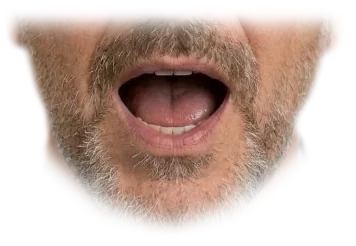
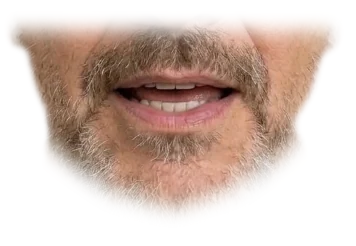
Ağız: 'a' resimleri konuşma ölçüsünde yeniden çizildi (meraklı, düşünceli, anlayışlı, şaşkın); 'a' artık kısaltılmıyor
Eski 'a' resimleri esner gibi aşırı açıktı (diğer ünlülerin iki katı).

Claude-Session: https://claude.ai/code/session_01VDWY4KUyw1Gm5WsRP8cYgH

diff --git a/dh-canli-yuz.js b/dh-canli-yuz.js
@@ -112,7 +112,7 @@
      - Ünlüler en önemli: kısa bir ünlü komşu ünsüze yutulmaz, gerekirse komşudan süre alır (harf atlanmaz).
      - Dudak kapanışı (m-b-p, f-v) kısa da olsa görünür kalır (en az ~65 ms).
      - Diğer kısa şekiller (r, n, t, k…) önemli komşuya katılır: saniyede ~6 değişim, titreme yok.
-     - Kısa "a" yarı açık (e) gösterilir: ağız yalnız uzun/vurgulu "a"da sonuna kadar açılır. */
+     - "a" resimleri konuşma ölçüsünde (orta açık) çizildi; ayrıca kısaltılmaz. */
   var ONEM = { a: 3, o: 3, u: 2.9, e: 2.7, i: 2.6, mbp: 2.8, fv: 2.6, sc: 2.2, idle: 1 }, EN_AZ_MS = { mbp: 65, fv: 65 };
   function agizDuzen(d, km) {
     var ALT = 2, alt = km / ALT, i, j, k;
@@ -133,7 +133,7 @@
       for (i = R.length - 1; i > 0; i--) if (R[i].s === R[i - 1].s) { R[i - 1].n += R[i].n; R.splice(i, 1); }
     }
     var o = [];
-    R.forEach(function (x) { var s = x.s === "a" && x.n * alt < 125 ? "e" : x.s; for (k = 0; k < x.n; k++) o.push(s); });
+    R.forEach(function (x) { for (k = 0; k < x.n; k++) o.push(x.s); });
     if (d.ci) { o.ci = []; for (k = 0; k < o.length; k++) o.ci.push(d.ci[Math.min(d.ci.length - 1, Math.floor(k / ALT))]); }
     return { dizi: o, kareMs: alt };
   }
@@ -141,7 +141,7 @@
   var sinirVar = false;   /* tarayıcı kelime sınırı (onboundary) bildiriyor mu — ilk bildirimde öğrenilir */
   /* ---------- Yardımcılar ---------- */
   /* avatar görsellerinin sürümü: görseller yenilenince artır (önbellekte eski kopya kalmasın) */
-  var GORSEL_SURUM = "20261119a";
+  var GORSEL_SURUM = "20261119b";
   function yukle(src) { if (src.indexOf("?") < 0 && !/^(data|blob):/.test(src)) src += "?v=" + GORSEL_SURUM; return new Promise(function (res, rej) { var im = new Image(); im.onload = function () { (im.decode ? im.decode() : Promise.resolve()).then(function () { res(im); }, function () { res(im); }); }; im.onerror = rej; im.src = src; }); }
   function ort(P, ids) { var x = 0, y = 0; ids.forEach(function (i) { x += P[i][0]; y += P[i][1]; }); return [x / ids.length, y / ids.length]; }
   function lerp(a, b, t) { return a + (b - a) * t; }
@@ -400,7 +400,7 @@
         var sv = sesSeviye(); c.ort = c.ort == null ? sv : c.ort * 0.96 + sv * 0.04;
         if (sv < 0.01) c.sessizMs = (c.sessizMs || 0) + dt * 1000; else if (sv > 0.016) c.sessizMs = 0;
         if (c.sessizMs > 90) sekil = "idle";
-        else if (c.ort && sv < c.ort * 0.75 && (sekil === "a" || sekil === "o")) sekil = sekil === "a" ? "e" : "u";   /* kısık hecede ağız yarı açık */
+        else if (c.ort && sv < c.ort * 0.6 && sekil === "o") sekil = "u";   /* kısık hecede ağız yarı açık */
         if (sv > 0.05 && sv > c.ort * 1.9 && Math.random() < 0.45) vurgula(simdi);
       }
       if (sekil === "th" && !parcalar.th) sekil = "e";

diff --git a/sw.js b/sw.js
@@ -13,7 +13,7 @@
       indirilip bir sonraki açılışta devreye girer.
    4) Bildirim tıklama / push davranışı v3 ile aynı.
 */
-var SW_VERSION = "dh-sw-v491";  /* 👄 Ağız zamanlaması: hece düzeni */ //  /* 🔗 Dil Harita ↔ Konuşkan: modül sonu konuşma, ortak hata defteri */
+var SW_VERSION = "dh-sw-v492";  /* 👄 Orta açık A */ //  /* 🔗 Dil Harita ↔ Konuşkan: modül sonu konuşma, ortak hata defteri */
 /* onceki v439: 🤖 Boş yapay zekâ cevabı artık hata; gpt-oss kısa düşünür */
 /* onceki v438: 📚 Konuşkan: Dil Harita modülleri ve tam seviye cümleleri */
 /* onceki v437: ➕ Konuşkan: kendi kursunu oluştur */

diff --git a/konuskan.html b/konuskan.html
@@ -45,7 +45,7 @@
 <!-- Dil Harita ortak hata defteri: Konuşkan hataları koçun da görmesi için buraya yazılır -->
 <script src="./learning-error-system.js?v=11"></script>
 <script src="./viseme-lang.js?v=3"></script>
-<script src="./dh-canli-yuz.js?v=15"></script>
+<script src="./dh-canli-yuz.js?v=16"></script>
 <script src="./konuskan/konuskan.js?v=9"></script>
 <script src="./konuskan/yz-kullanim.js?v=2"></script>
 <script src="./konuskan/youtube.js?v=1"></script>

diff --git a/chat-core.js b/chat-core.js
@@ -1776,7 +1776,7 @@ function aiTercihSor(devam){
 function canliYukle(){
   return new Promise(function(res, rej){
     if(window.DHCanliYuz) return res();
-    var s=document.createElement("script"); s.src="./dh-canli-yuz.js?v=15"; s.onload=res; s.onerror=rej; document.head.appendChild(s);
+    var s=document.createElement("script"); s.src="./dh-canli-yuz.js?v=16"; s.onload=res; s.onerror=rej; document.head.appendChild(s);
   });
 }
 class CanliSohbetAvatar{

diff --git a/dh-avatar.js b/dh-avatar.js
@@ -145,7 +145,7 @@
   function canliHazirla() {
     var adimlar = [];
     if (!global.DHViseme) adimlar.push(betikYukle("./viseme-lang.js"));
-    return Promise.all(adimlar).then(function () { return global.DHCanliYuz ? null : betikYukle("./dh-canli-yuz.js?v=15"); });
+    return Promise.all(adimlar).then(function () { return global.DHCanliYuz ? null : betikYukle("./dh-canli-yuz.js?v=16"); });
   }
   var stilVar = false;
   function stilEkle() {

diff --git a/chatairport.html b/chatairport.html
@@ -48,7 +48,7 @@ window.CHAT_SCENARIO = {
      konu baştan başlıyordu. chat-core'dan ÖNCE yüklenmeli. -->
 <script src="./dh-konusma.js?v=2"></script>
 <script src="./profile.js?v=2"></script>
-<script src="./chat-core.js?v=t46"></script>
+<script src="./chat-core.js?v=t47"></script>
 <script src="./dh-ortam-fon.js?v=6"></script>
 <script src="./dh-plan.js?v=3"></script>
 <script src="./dh-sohbet-puan.js?v=tm1"></script>

diff --git a/chatdoctor.html b/chatdoctor.html
@@ -53,7 +53,7 @@
      konu baştan başlıyordu. chat-core'dan ÖNCE yüklenmeli. -->
 <script src="./dh-konusma.js?v=2"></script>
 <script src="./profile.js?v=2"></script>
-<script src="./chat-core.js?v=t46"></script>
+<script src="./chat-core.js?v=t47"></script>
 <script src="./dh-ortam-fon.js?v=6"></script>
 <script src="./dh-plan.js?v=3"></script>
 <script src="./dh-sohbet-puan.js?v=tm1"></script>

diff --git a/chathotel.html b/chathotel.html
@@ -27,7 +27,7 @@
      konu baştan başlıyordu. chat-core'dan ÖNCE yüklenmeli. -->
 <script src="./dh-konusma.js?v=2"></script>
 <script src="./profile.js?v=2"></script>
-<script src="./chat-core.js?v=t46"></script>
+<script src="./chat-core.js?v=t47"></script>
 <script src="./dh-ortam-fon.js?v=6"></script>
 <script src="./dh-plan.js?v=3"></script>
 <script src="./dh-sohbet-puan.js?v=tm1"></script>

diff --git a/chatmodul.html b/chatmodul.html
@@ -87,7 +87,7 @@
      konu baştan başlıyordu. chat-core'dan ÖNCE yüklenmeli. -->
 <script src="./dh-konusma.js?v=2"></script>
 <script src="./profile.js?v=2"></script>
-<script src="./chat-core.js?v=t46"></script>
+<script src="./chat-core.js?v=t47"></script>
 <script src="./dh-ortam-fon.js?v=6"></script>
 <script src="./dh-plan.js?v=3"></script>
 <script src="./dh-sohbet-puan.js?v=tm1"></script>

diff --git a/chatrestaurant.html b/chatrestaurant.html
@@ -24,7 +24,7 @@
      konu baştan başlıyordu. chat-core'dan ÖNCE yüklenmeli. -->
 <script src="./dh-konusma.js?v=2"></script>
 <script src="./profile.js?v=2"></script>
-<script src="./chat-core.js?v=t46"></script>
+<script src="./chat-core.js?v=t47"></script>
 <script src="./dh-ortam-fon.js?v=6"></script>
 <script src="./dh-plan.js?v=3"></script>
 <script src="./dh-sohbet-puan.js?v=tm1"></script>

diff --git a/index.html b/index.html
@@ -291,7 +291,7 @@
 <script src="./cloud-sync.js?v=47"></script>
 <script src="./dh-telafi.js?v=2"></script>
 <script src="./dh-konusma.js?v=3"></script>
-<script src="./dh-avatar.js?v=11"></script>
+<script src="./dh-avatar.js?v=12"></script>
 <script src="./dh-daily-pdf.js?v=2"></script>
 <script src="./gemini-quality-tools.js?v=4"></script>
 <script src="./bulk-ai-v33.js?v=3"></script>

diff --git a/chatteacher1.html b/chatteacher1.html
@@ -26,7 +26,7 @@
 <script src="./sentences-loader.js?v=1"></script>
 <script src="./dh-konusma.js?v=3"></script>
 <script src="./profile.js?v=2"></script>
-<script src="./chat-core.js?v=t46"></script>
+<script src="./chat-core.js?v=t47"></script>
 <script src="./dh-ortam-fon.js?v=6"></script>
 <script src="./dh-plan.js?v=3"></script>
 <script src="./dh-sohbet-puan.js?v=tm1"></script>
